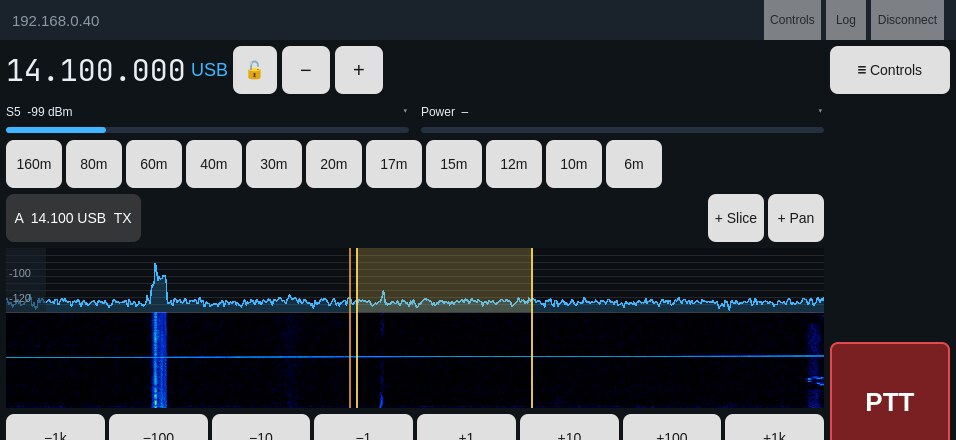
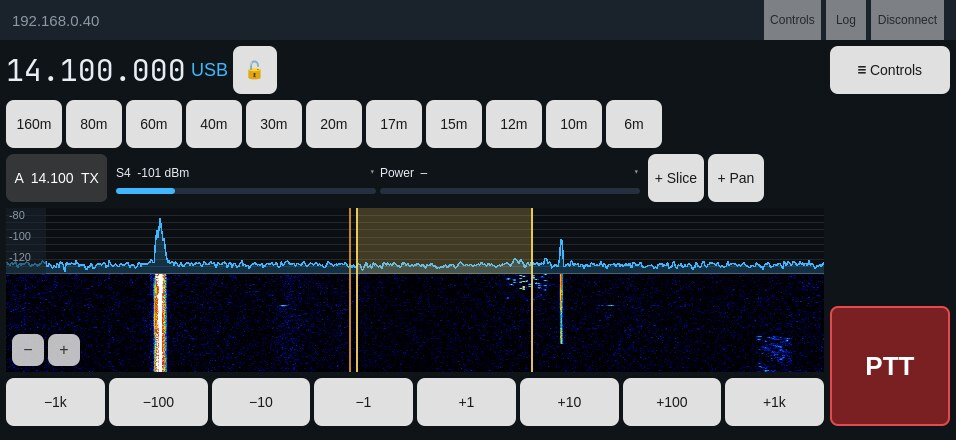
mobile: meters in the slice row, zoom −/+ on the waterfall (iPad and iPhone)
- The two meters move into the slice row, between the slice chips and
  "+ Slice"/"+ Pan" (capped at 260 px each); the separate meter row and
  the meters in the iPad frequency row are gone, giving the spectrum the
  space. Phone chips drop the mode (shown beside the frequency).
- Zoom −/+ are small (32 px) buttons at the bottom left of the waterfall,
  above the step row, as in AetherSDR, instead of in the frequency row.
- ConnectPage: margins from the page's safe area, not the ScrollView's own
  (binding loop logged on iPad).
Screenshots refreshed against the FLEX.

Claude-Session: https://claude.ai/code/session_01KANojkzU64KoozGDbNDzRK

diff --git a/mobile/qml/SliceBar.qml b/mobile/qml/SliceBar.qml
@@ -4,14 +4,18 @@ import QtQuick.Layouts
 import AetherMobile
 
 // One chip per slice ("A 14.100 USB", TX marked). Tap selects; press and
-// hold opens make-TX / close. "+ Slice" and "+ Pan" add more.
+// hold opens make-TX / close. The two meters sit in the middle of the row;
+// "+ Slice" and "+ Pan" add more.
 RowLayout {
     id: bar
     spacing: 4
     property bool compact: false
 
     ListView {
-        Layout.fillWidth: true
+        id: chips
+        // As wide as the chips (up to 45 % of the row); the meters take the rest.
+        Layout.preferredWidth: Math.min(contentWidth, bar.width * 0.45)
+        Layout.minimumWidth: Math.min(contentWidth, 80)
         Layout.preferredHeight: Theme.touchTarget
         orientation: ListView.Horizontal
         spacing: 4
@@ -24,8 +28,9 @@ RowLayout {
             checked: modelData.active
             leftPadding: 8
             rightPadding: 8
-                        text: modelData.letter + "  " + modelData.frequency.toFixed(3) + " " + modelData.mode
-                  + (modelData.tx ? "  TX" : "")
+                        // Compact (phone): the mode is beside the frequency already.
+            text: modelData.letter + "  " + modelData.frequency.toFixed(3)
+                  + (bar.compact ? "" : " " + modelData.mode) + (modelData.tx ? "  TX" : "")
             focusPolicy: Qt.NoFocus
             onClicked: Engine.selectSlice(modelData.id)
             // Under the pressed chip, not at the last pointer position.
@@ -44,6 +49,24 @@ RowLayout {
                 }
             }
         }
+    }
+    // Two selectable meters (tap to choose), between the slices and the
+    // add buttons, so no separate meter row is needed.
+    MeterView {
+        side: "left"
+        compact: true
+        Layout.fillWidth: true
+        Layout.preferredWidth: 1
+        Layout.maximumWidth: 260
+        Layout.leftMargin: 4
+    }
+    MeterView {
+        side: "right"
+        compact: true
+        Layout.fillWidth: true
+        Layout.preferredWidth: 1
+        Layout.maximumWidth: 260
+        Layout.rightMargin: 4
     }
     AppButton {
         text: qsTr("+ Slice")

diff --git a/mobile/qml/OperatePage.qml b/mobile/qml/OperatePage.qml
@@ -143,38 +143,7 @@ Page {
                 LockButton {
                     Layout.preferredHeight: Theme.touchTarget
                 }
-                // Zoom the pan out / in around the slice.
-                AppButton {
-                    text: "−"
-                    font.pixelSize: 22
-                    Layout.preferredWidth: Theme.buttonWidth
-                    Layout.preferredHeight: Theme.touchTarget
-                    focusPolicy: Qt.NoFocus
-                    onClicked: Engine.zoom(2.0)
-                }
-                AppButton {
-                    text: "+"
-                    font.pixelSize: 22
-                    Layout.preferredWidth: Theme.buttonWidth
-                    Layout.preferredHeight: Theme.touchTarget
-                    focusPolicy: Qt.NoFocus
-                    onClicked: Engine.zoom(0.5)
-                }
-                // Two selectable meters (tap to choose), fixed width so a
-                // changing reading never resizes the row.
-                RowLayout {
-                    spacing: Theme.spacing
-                    Layout.fillWidth: true
-                    Layout.maximumWidth: page.compact ? 280 : 400
-                    MeterView {
-                        side: "left"; compact: page.compact
-                        Layout.fillWidth: true; Layout.minimumWidth: 110; Layout.preferredWidth: 190
-                    }
-                    MeterView {
-                        side: "right"; compact: page.compact
-                        Layout.fillWidth: true; Layout.minimumWidth: 110; Layout.preferredWidth: 190
-                    }
-                }
+                Item { Layout.fillWidth: true }
             }
 
             // Band stack (Flex): one row, buttons share the width. Each band

diff --git a/mobile/qml/PanadapterView.qml b/mobile/qml/PanadapterView.qml
@@ -208,6 +208,39 @@ Rectangle {
         }
     }
 
+    // Zoom out / in, bottom left of the waterfall as in AetherSDR.
+    Row {
+        z: 5
+        anchors.left: parent.left
+        anchors.bottom: parent.bottom
+        anchors.margins: 6
+        spacing: 4
+        AppButton {
+            text: "−"
+            font.pixelSize: 16
+            implicitWidth: 32
+            implicitHeight: 32
+            width: 32
+            height: 32
+            padding: 0
+            opacity: 0.85
+            focusPolicy: Qt.NoFocus
+            onClicked: Engine.zoom(2.0)
+        }
+        AppButton {
+            text: "+"
+            font.pixelSize: 16
+            implicitWidth: 32
+            implicitHeight: 32
+            width: 32
+            height: 32
+            padding: 0
+            opacity: 0.85
+            focusPolicy: Qt.NoFocus
+            onClicked: Engine.zoom(0.5)
+        }
+    }
+
     function mhzAt(x) {
         return Engine.panCenterMhz + (x / panArea.width - 0.5) * Engine.panBandwidthMhz
     }

diff --git a/mobile/qml/ConnectPage.qml b/mobile/qml/ConnectPage.qml
@@ -32,10 +32,12 @@ Page {
         id: scroll
         anchors.fill: parent
         // Clear of the notch / Dynamic Island and the home indicator.
-        anchors.leftMargin: 2 * Theme.spacing + scroll.SafeArea.margins.left
-        anchors.rightMargin: 2 * Theme.spacing + scroll.SafeArea.margins.right
-        anchors.topMargin: 2 * Theme.spacing + scroll.SafeArea.margins.top
-        anchors.bottomMargin: Theme.spacing + scroll.SafeArea.margins.bottom
+        // The page's safe area, not the ScrollView's own: margins taken from
+        // the item they move made a binding loop (logged on iPad).
+        anchors.leftMargin: 2 * Theme.spacing + page.SafeArea.margins.left
+        anchors.rightMargin: 2 * Theme.spacing + page.SafeArea.margins.right
+        anchors.topMargin: 2 * Theme.spacing + page.SafeArea.margins.top
+        anchors.bottomMargin: Theme.spacing + page.SafeArea.margins.bottom
         contentWidth: availableWidth
         clip: true
 

diff --git a/mobile/qml/PhoneOperatePage.qml b/mobile/qml/PhoneOperatePage.qml
@@ -84,16 +84,7 @@ Page {
                 }
                 Label { text: Engine.mode; color: Theme.accent; font.pixelSize: 18 }
                 LockButton { implicitWidth: 44 }
-                AppButton { text: "−"; font.pixelSize: 20; implicitWidth: Theme.touchTarget; onClicked: Engine.zoom(2.0) }
-                AppButton { text: "+"; font.pixelSize: 20; implicitWidth: Theme.touchTarget; onClicked: Engine.zoom(0.5) }
                 Item { Layout.fillWidth: true }
-            }
-            // Two selectable meters side by side (tap to choose).
-            RowLayout {
-                Layout.fillWidth: true
-                spacing: Theme.spacing
-                MeterView { side: "left"; compact: true; Layout.fillWidth: true; Layout.preferredWidth: 1 }
-                MeterView { side: "right"; compact: true; Layout.fillWidth: true; Layout.preferredWidth: 1 }
             }
 
             // Horizontally scrolling band strip.
